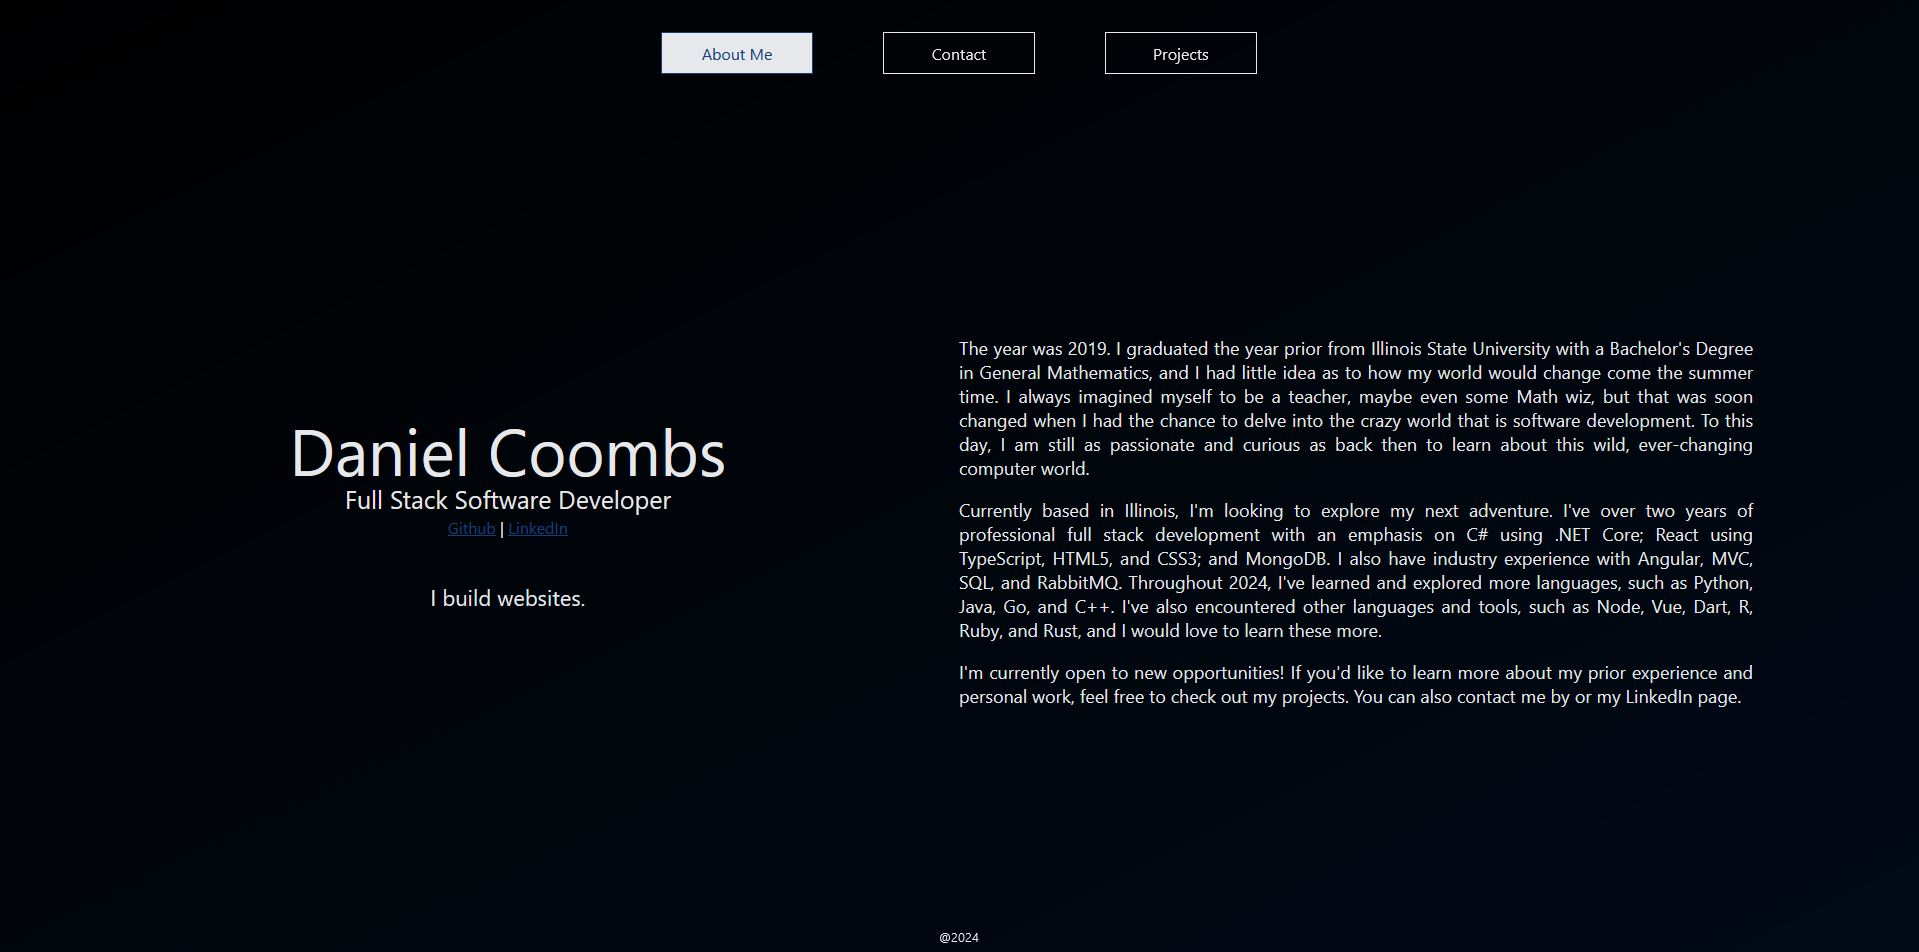
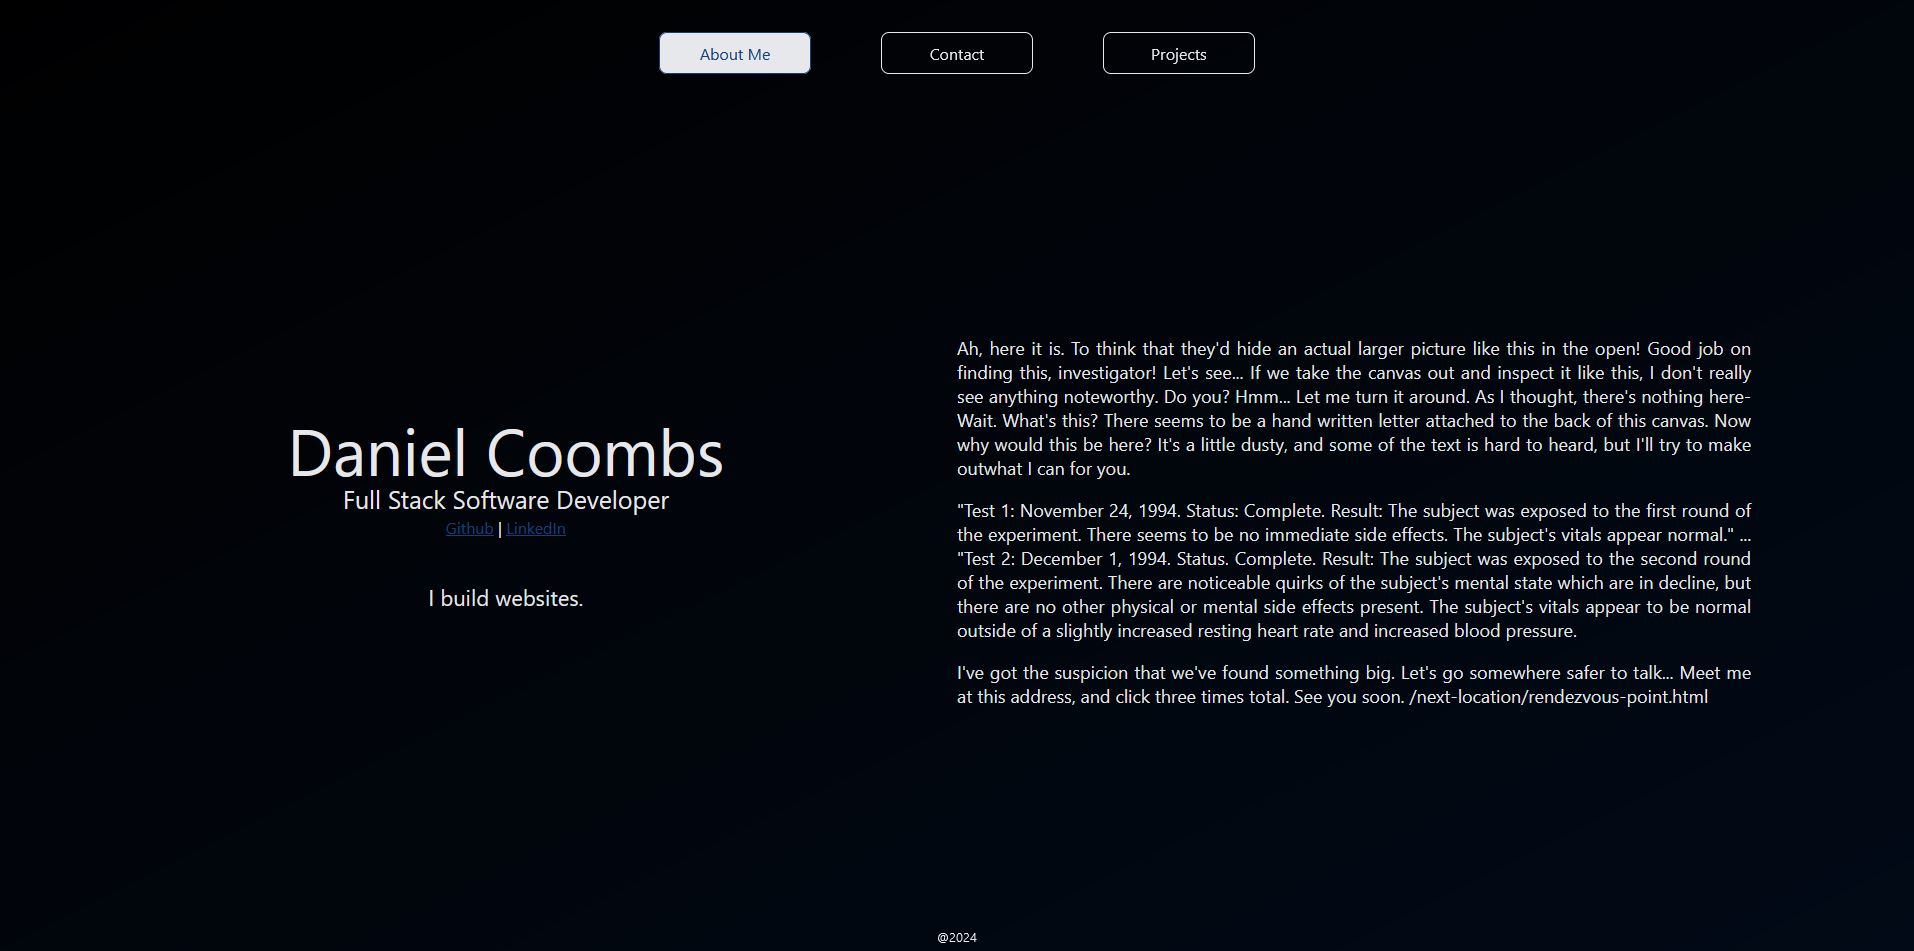
Updated wording on about me and styling for projects section

diff --git a/src/Pages/AboutMe.tsx b/src/Pages/AboutMe.tsx
@@ -1,20 +1,16 @@
 import './AboutMe.css';
 
-function getEmail() {
-    navigator.clipboard.writeText('TODO');
-}
-
 export default function AboutMe() {
     return (
         <div className='about-me'>
             <p>
                 The year was 2019. I graduated the year prior from Illinois State University with a Bachelor's Degree in General Mathematics, and I had little idea as to how my world would change come the summer time.
-                I always imagined myself to be a teacher, maybe even some Math wiz, but that was soon changed when I had the chance to delve into the crazy world that is software development.
-                To this day, I am still as passionate and curious as back then to learn about this wild, ever-changing computer world.
+                I always imagined myself to be a teacher, maybe even some math wiz, but that was soon changed when I had the chance to delve into the crazy world that is software development.
+                To this day, I am still as passionate and curious as back then to learn about this wild, ever-changing industry.
             </p>
             <p>
-                Currently based in Illinois, I'm looking to explore my next adventure.
-                I've over two years of professional full stack development with an emphasis on C# using .NET Core; React using TypeScript, HTML5, and CSS3; and MongoDB.
+                Currently based in Illinois, I'm looking for my next adventure.
+                I have over two years of professional full stack development with an emphasis on C# using .NET Core; React using TypeScript, HTML5, and CSS3; and MongoDB.
                 I also have industry experience with Angular, MVC, SQL, and RabbitMQ.
                 Throughout 2024, I've learned and explored more languages, such as Python, Java, Go, and C++.
                 I've also encountered other languages and tools, such as Node, Vue, Dart, R, Ruby, and Rust, and I would love to learn these more.

diff --git a/public/index.html b/public/index.html
@@ -10,34 +10,11 @@
       content="Web site created using create-react-app"
     />
     <link rel="apple-touch-icon" href="%PUBLIC_URL%/logo192.png" />
-    <!--
-      manifest.json provides metadata used when your web app is installed on a
-      user's mobile device or desktop. See https://developers.google.com/web/fundamentals/web-app-manifest/
-    -->
     <link rel="manifest" href="%PUBLIC_URL%/manifest.json" />
-    <!--
-      Notice the use of %PUBLIC_URL% in the tags above.
-      It will be replaced with the URL of the `public` folder during the build.
-      Only files inside the `public` folder can be referenced from the HTML.
-
-      Unlike "/favicon.ico" or "favicon.ico", "%PUBLIC_URL%/favicon.ico" will
-      work correctly both with client-side routing and a non-root public URL.
-      Learn how to configure a non-root public URL by running `npm run build`.
-    -->
     <title>Daniel Coombs Portfolio</title>
   </head>
   <body>
     <noscript>You need to enable JavaScript to run this app.</noscript>
     <div id="root"></div>
-    <!--
-      This HTML file is a template.
-      If you open it directly in the browser, you will see an empty page.
-
-      You can add webfonts, meta tags, or analytics to this file.
-      The build step will place the bundled scripts into the <body> tag.
-
-      To begin the development, run `npm start` or `yarn start`.
-      To create a production bundle, use `npm run build` or `yarn build`.
-    -->
   </body>
 </html>

diff --git a/src/Base/Puzzle/Puzzle.tsx b/src/Base/Puzzle/Puzzle.tsx
@@ -1,0 +1,24 @@
+import './Puzzle.css';
+
+function preparePuzzle() {
+    const puzzleStarted = localStorage.getItem('puzzle');
+    if (!puzzleStarted) {
+        localStorage.setItem('puzzle', 'started');
+        localStorage.setItem('key', 'php');
+        localStorage.setItem('FOR YOU.', 'Word on the street is you\'ve found something interesting.. I don\'t mean to meddle, but I\'d advise you stop your search here. That is, if you think you\'re truly safe with your partner in crime. The choice is yours, of course, but make sure you make the right one.\n\nanswer: 293');
+    }
+
+}
+
+export default function Puzzle() {
+    preparePuzzle();
+    return (
+        <div className='maybe-try-highlighting-the-page-with-ctrl-a'>
+            <p className='puzzle-entry-text'>Oh... Did you accidentally select the full page, or are you interested in the puzzle?</p>
+            <p className='puzzle-entry-text' style={{top: '22px'}}>Well, since you're here, why don't you join me!</p>
+            <p className='puzzle-entry-text' style={{top: '44px'}}>I've heard rumors of a secret organization existing somewhere beneath our branch.</p>
+            <p className='puzzle-entry-text' style={{top: '66px'}}>We can be investigators in this whole crazy mystery!</p>
+            <p className='puzzle-entry-text' style={{top: '88px'}}>To start off, let's inspect this room to find the larger picture...</p>
+        </div>
+    )
+}

diff --git a/src/Base/Introduction.tsx b/src/Base/Introduction.tsx
@@ -8,7 +8,7 @@ const messages: string[] = ['I build websites.',
     'I have over 2 years of professional experience.',
     'I primarily use React, C#, .NET, and MongoDB.',
     'I also have experience with Angular, Python, and SQL.',
-    'I love puzzles! Maybe you should try the one on this page... :)'];
+    'I love puzzles! They\'re the highlight of the party! Maybe you should try the one on this page :)'];
 
 export default function Introduction() {
     const [messageIndex, setMessageIndex] = useState(0);
@@ -28,7 +28,7 @@ export default function Introduction() {
     }, messageTime);
 
     return (
-        <div className='introduction no-select'>
+        <div className='introduction'>
             <div id='name'>Daniel Coombs</div>
             <div id='title'>Full Stack Software Developer</div>
             <div id='sources'>

diff --git a/src/App.tsx b/src/App.tsx
@@ -6,6 +6,7 @@ import RedirectBlocks from './Base/RedirectBlocks';
 import AboutMe from './Pages/AboutMe';
 import Contact from './Pages/Contact';
 import Projects from './Pages/ProjectPage';
+import Puzzle from './Base/Puzzle/Puzzle';
 import { PageType } from './Structures/Enums';
 import './App.css';
 import React from 'react';
@@ -32,7 +33,7 @@ function App() {
 
   return (
     <div className="app">
-      <div className='app-body'>
+      <div className='app-body no-select'>
         <div className='app-body-redirect-blocks'>
           <RedirectBlocks
             currentSection={currentSection}
@@ -55,6 +56,7 @@ function App() {
           </div>
         </div>
       </div>
+      <Puzzle />
       <Footer />
     </div>
   );

diff --git a/src/Base/ProjectBlock.css b/src/Base/ProjectBlock.css
@@ -13,12 +13,12 @@
 }
 
 .project-block-description {
-    height: 176px;
-    text-align: justify;
+    height: 80%;
     padding-left: 27px;
     padding-right: 5px;
     overflow-y: scroll;
     scrollbar-width: none;
+    text-align: justify;
     white-space: preserve;
 }
 
@@ -39,6 +39,7 @@
 
 .project-block-inner {
     display: flex;
+    height: 100%;
     margin: 10px;
 }
 
@@ -74,10 +75,16 @@
 
 .project-block-right {
     margin-top: 5px;
+    max-height: 90%;
 }
 
 .project-block-right-tools {
     display: flex;
+    height: 20%;
     justify-content: center;
+    overflow-y: scroll;
+    padding-left: 27px;
+    padding-right: 5px;
+    scrollbar-width: none;
     white-space: preserve;
 }

diff --git a/src/index.css b/src/index.css
@@ -22,14 +22,3 @@ code {
   font-family: source-code-pro, Menlo, Monaco, Consolas, 'Courier New',
     monospace;
 }
-
-/* Retrieved from https://stackoverflow.com/a/4407335 */
-.no-select {
-  -webkit-touch-callout: none; /* iOS Safari */
-    -webkit-user-select: none; /* Safari */
-     -khtml-user-select: none; /* Konqueror HTML */
-       -moz-user-select: none; /* Old versions of Firefox */
-        -ms-user-select: none; /* Internet Explorer/Edge */
-            user-select: none; /* Non-prefixed version, currently
-                                  supported by Chrome, Edge, Opera and Firefox */
-}

diff --git a/src/App.css b/src/App.css
@@ -49,3 +49,14 @@
 * > a {
   color: #153E7D!important;
 }
+
+/* Retrieved from https://stackoverflow.com/a/4407335 */
+.no-select {
+  -webkit-touch-callout: none; /* iOS Safari */
+    -webkit-user-select: none; /* Safari */
+     -khtml-user-select: none; /* Konqueror HTML */
+       -moz-user-select: none; /* Old versions of Firefox */
+        -ms-user-select: none; /* Internet Explorer/Edge */
+            user-select: none; /* Non-prefixed version, currently
+                                  supported by Chrome, Edge, Opera and Firefox */
+}

diff --git a/src/Base/Puzzle/Puzzle.css b/src/Base/Puzzle/Puzzle.css
@@ -1,0 +1,7 @@
+.puzzle-entry-text {
+    color: transparent;
+    cursor: default;
+    position: absolute; 
+    top: 0;
+    z-index: -1;
+}
